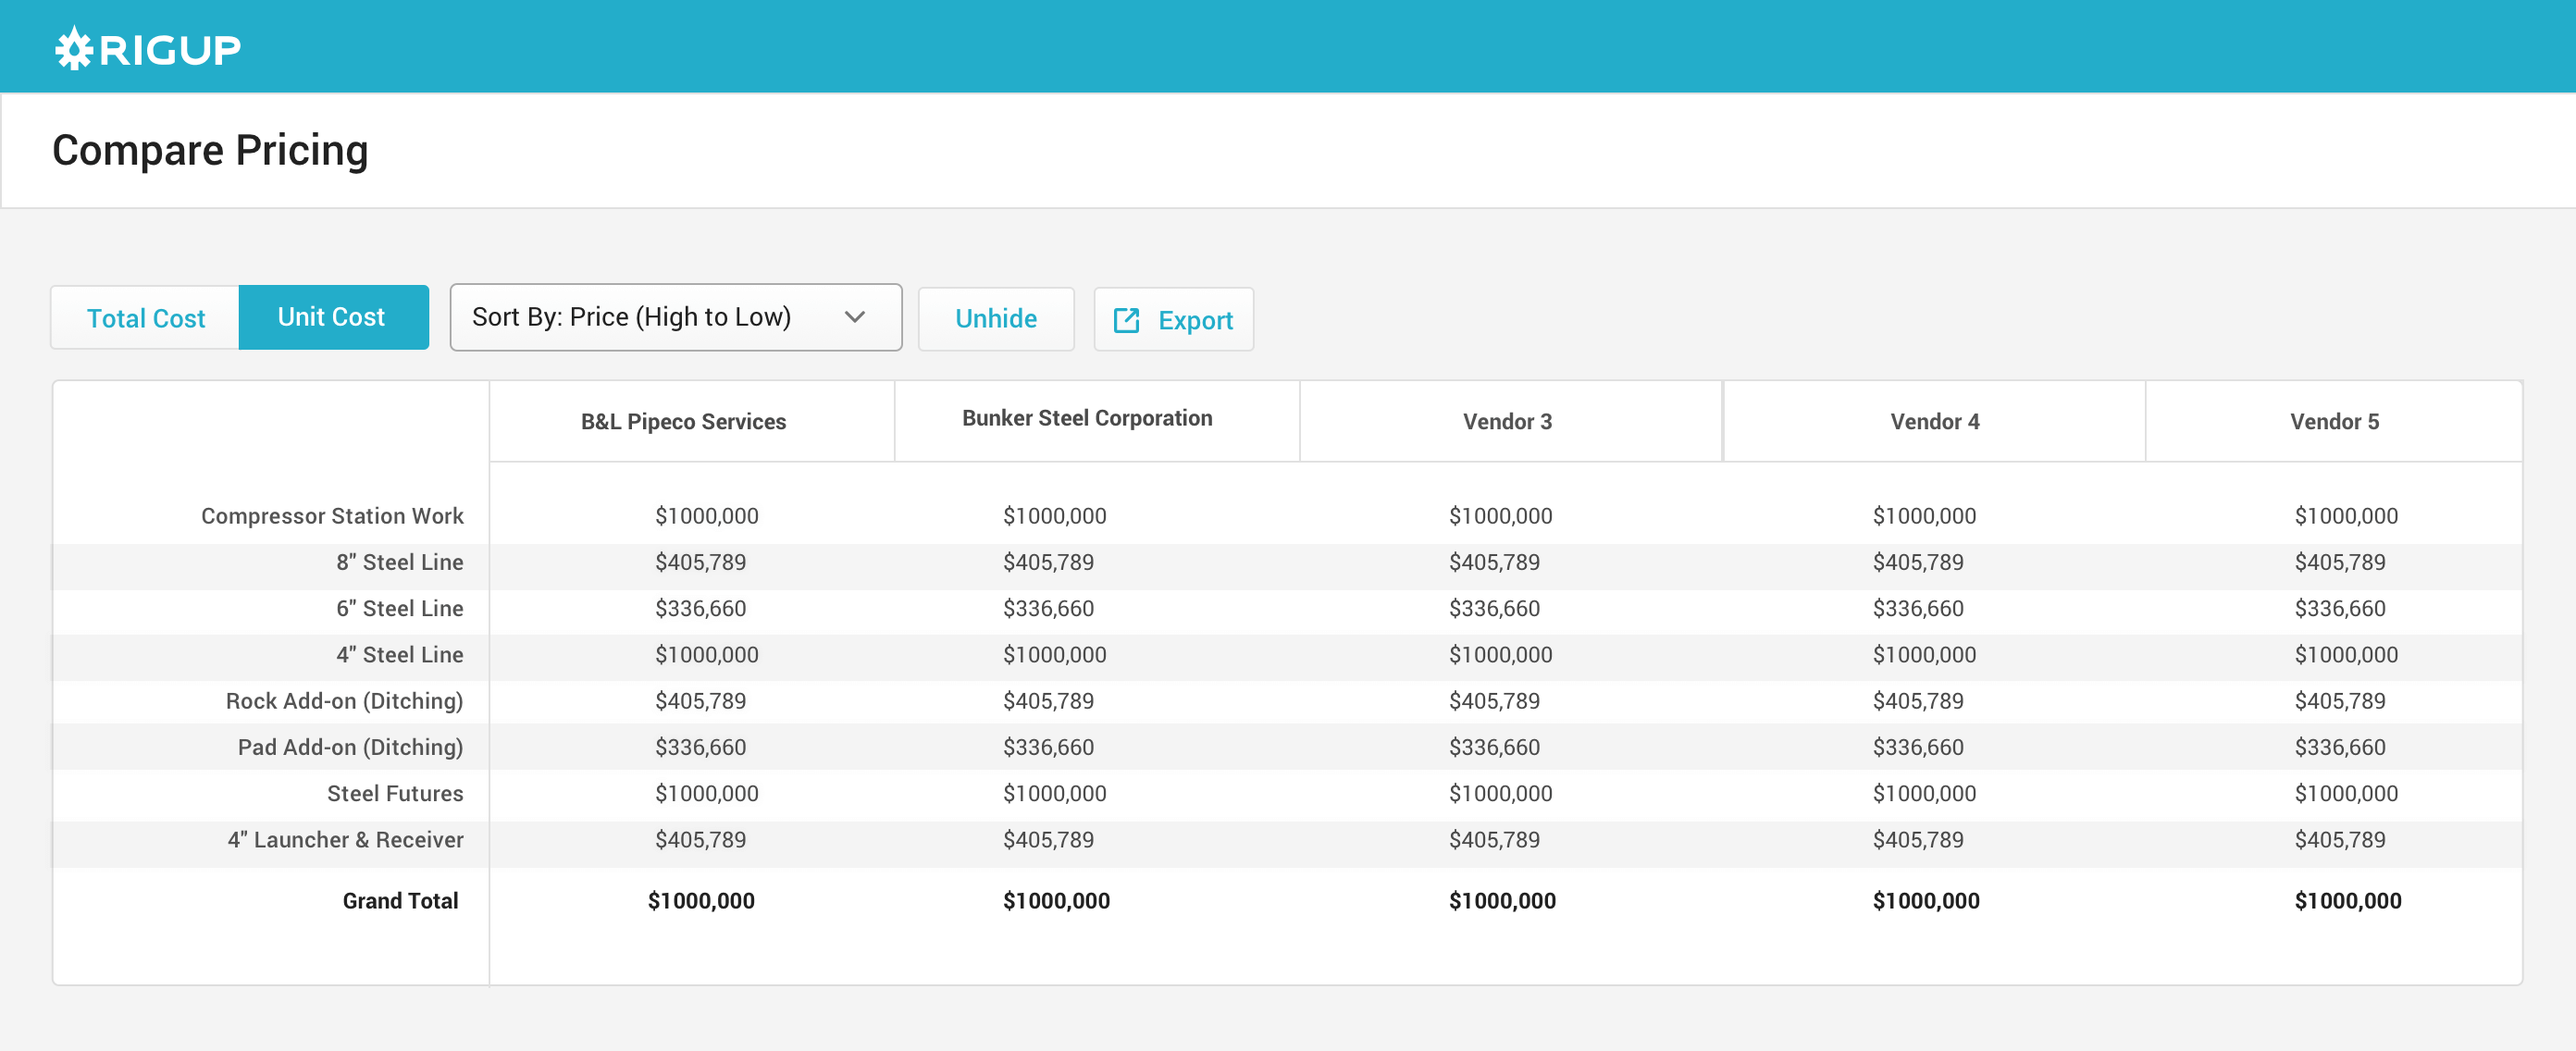
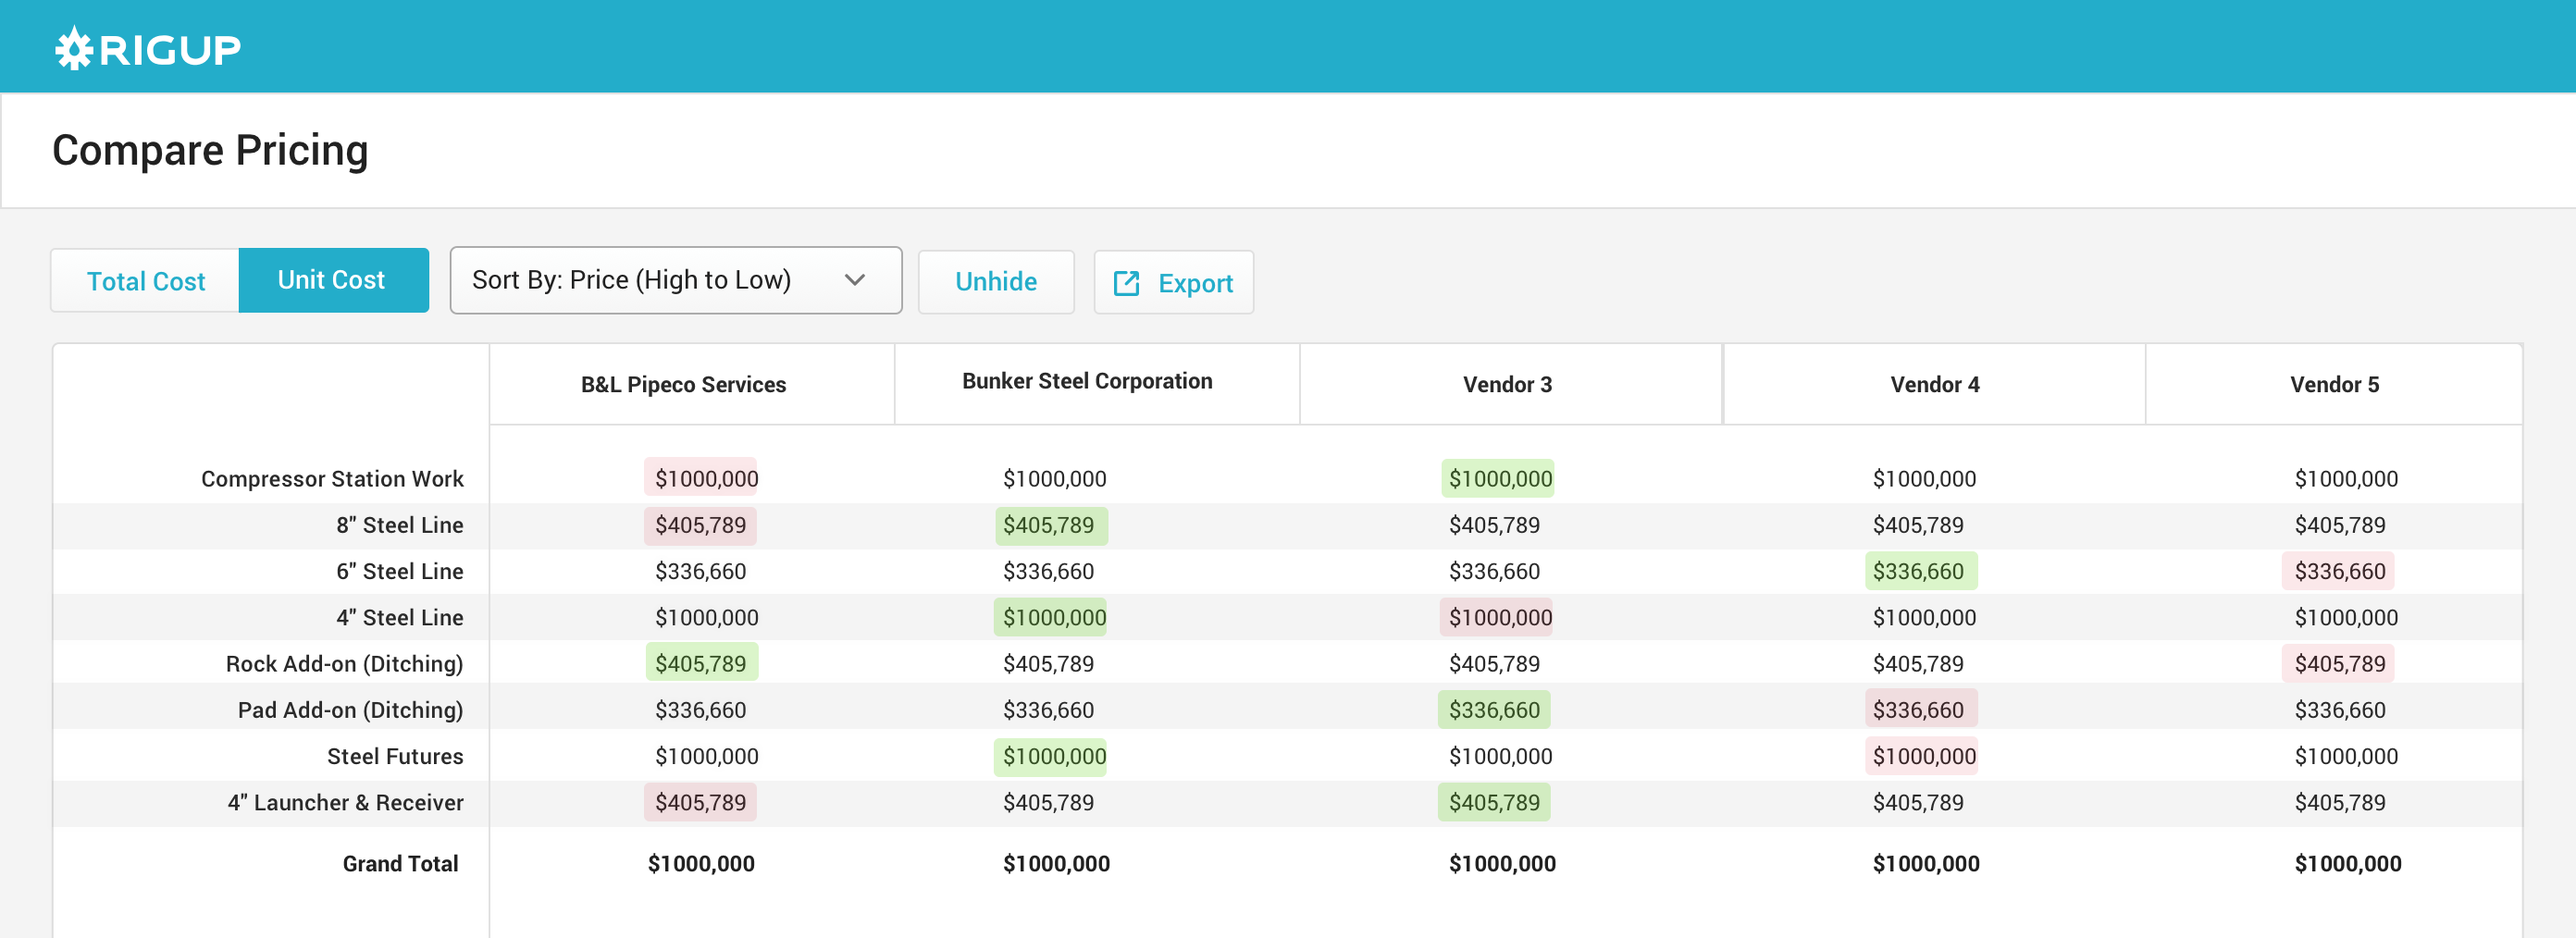
update

diff --git a/rigup.html b/rigup.html
@@ -89,44 +89,53 @@
 		<p class="quote">“I loved the bidding process, but 99% of my time is still consumed on the week long effort of comparing each bid to one another.” - Petroleum Engineer User</p>
 		<p>Every vendor has a different way of pricing and naming their products/services. Traditionally, normalizing pricing meant manipulating cost variables in Excel, which could take weeks.</p>	
 		<p>I designed a solution that kept everything in-app and eliminated the time-consuming demands of Excel, ensuring standardized pricing through input validation.</p>
-	</div>	
+
+	<p>Users create bid templates to specify what line items vendors must fill out.</p>
+				</div>	
+	<div class="full-width"><img src="img/bidding/step_one_c.png"></div>
+
 
 	<div class="full-width">
-<img src="img/bidding/step_one_c.png">
+<p>Individual pricing submission.</p>	
+		<img src="img/bidding/individual.png">
+
+<p>The comparison overview makes it easy to identify the highest and lowest prices for every line item.</p>	
 
 		<img src="img/bidding/compare.png">
+		<p>This view allows users to focus their analysis one line item at a time.</p>	
+<div id="container">
+		<img src="img/bidding/indv_li.png">
+
+
 	</div>
 
-	<!--         Pattern Library          -->
-	<section>
-
-<div id="container">
-	<a id="pattern_library"></a>
+<!--         Pattern Library          -->
+<section>
+	<div id="container">
+		<a id="pattern_library"></a>
 		<h2>Pattern Library</h2>
 		<h3>Background</h3>
 		<p>I joined RigUp early on as their only designer, where shipping fast to validate ideas were priority. Creating a design language wasn’t critical at this stage, but a year later I was leading a design team, and our product had quickly reached a level of complexity where our design debt was affecting our efficiency.</p>
-
 		<p>We were wasting time creating existing interface components - leading to an inconsistent user experience and bloating our code base with redundancy.</p>
 		<img src="img/bidding/input.png">
-				<img src="img/bidding/select.png"></div>
-					<div class="full-width"><img src="img/bidding/tables.png"></div>
-<div id="container">
+		<img src="img/bidding/select.png"></div>
+		<div class="full-width"><img src="img/bidding/tables.png"></div>
+	<div id="container">
 		<p>The pattern library is an ongoing process. We have just begun the gradual implementation of its core components. It has already proved valuable as a common ground for designers and developers to reference the rationale behind design decisions, as well as understand context and use cases of patterns.</p>
 </section>
-	<!--         Marketing          -->
 
+<!--         Marketing          -->
 <section>
-<div id="container">
-
+	<div id="container">
 		<a id="marketing"></a>
 			<h2>Branding & Marketing</h2>
 					<h3>Background</h3>
-			<p>Being the only designer for awhile at a startup meant I was leading more than product design. I oversaw branding, marketing, and sales design as well - designing investor pitch decks, sales handouts, and even hard hats.
-        	 <img src="img/bidding/ru_icons.png">
-        	 <img src="img/bidding/home.png">
-        	 <img src="img/bidding/faq.png">
+			<p>Being the only designer for awhile at a startup meant I was leading more than product design. I oversaw branding, marketing, and sales design as well - designing everything from investor pitch decks, sales handouts, and even hard hats.
+	    	 <img src="img/bidding/ru_icons.png">
+	    	 <img src="img/bidding/home.png">
+	    	 <img src="img/bidding/faq.png">
 	</div>
-	</section>
+</section>
 </body>
 </html>
 
